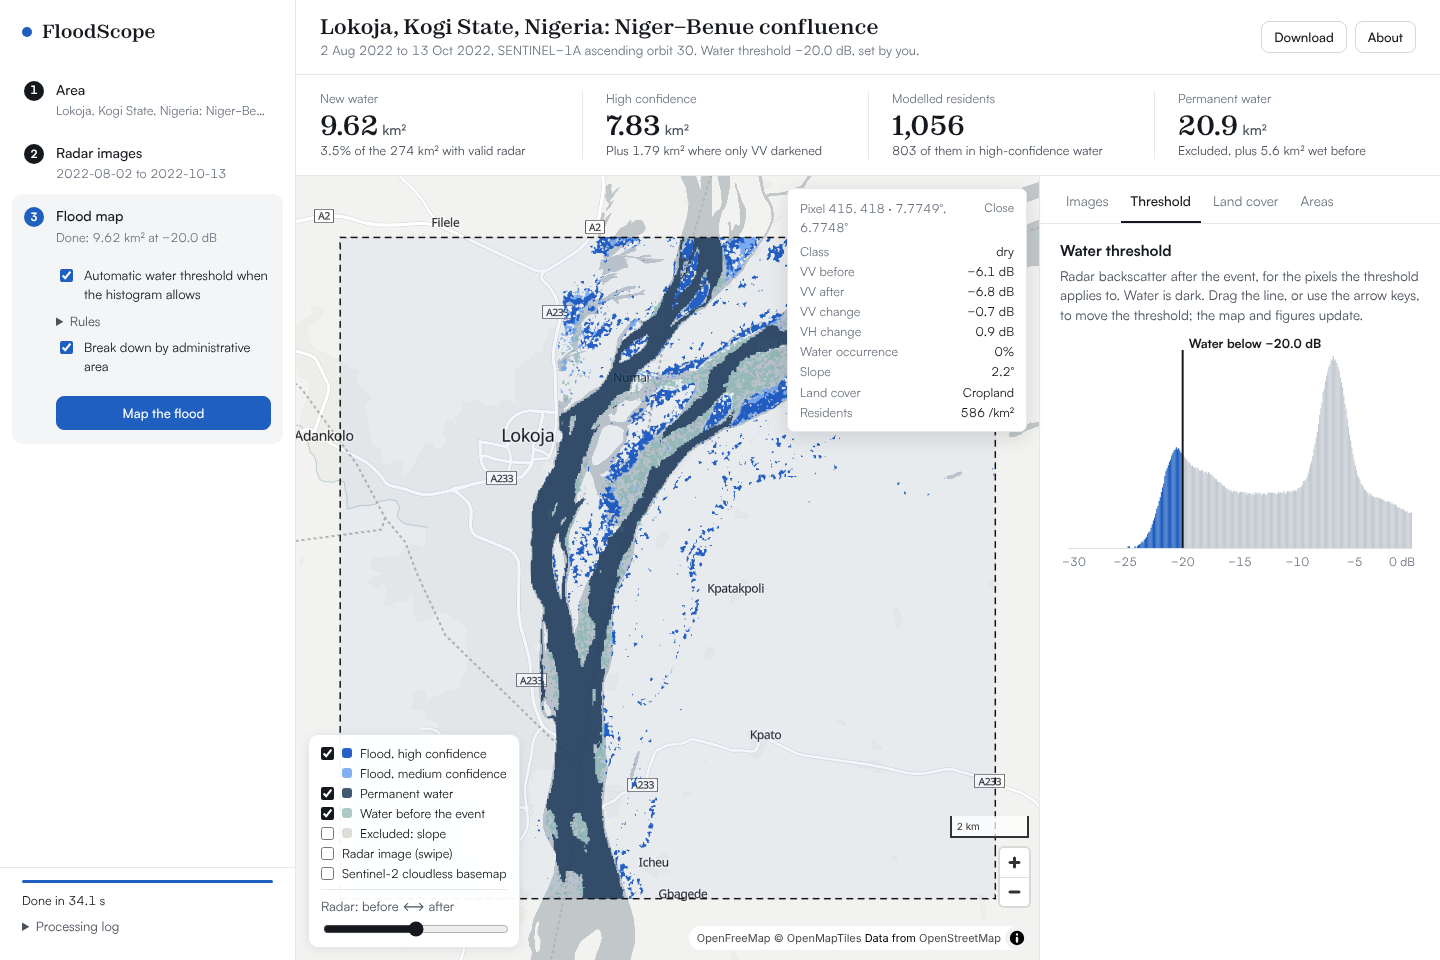
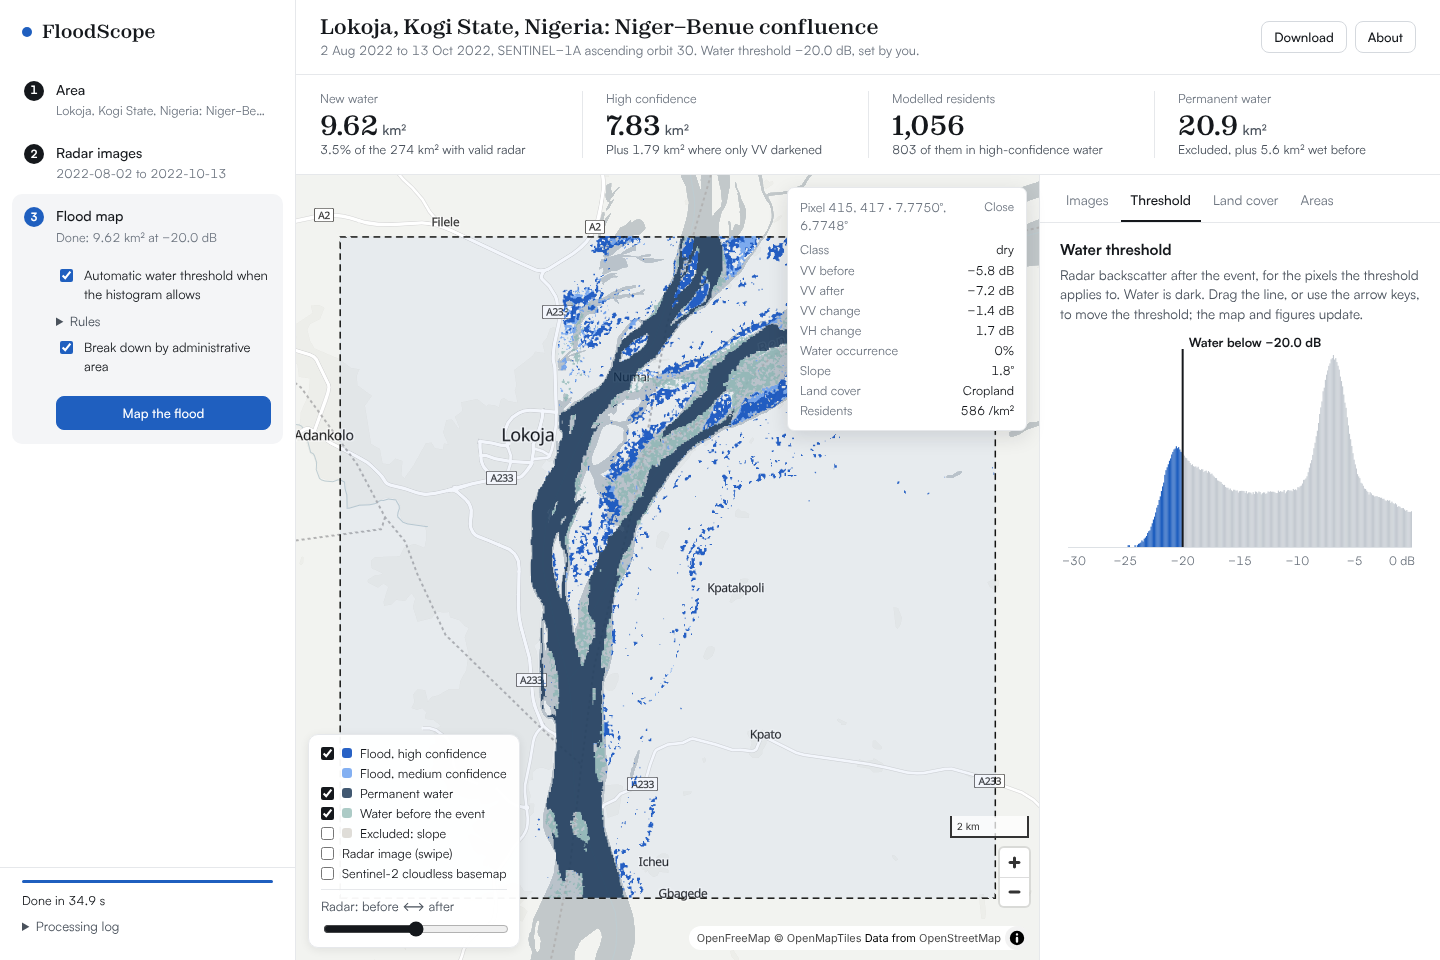
Fix review findings: clear old results on a new run, histogram as a keyboard slider, image re-picking, stale reclassify replies, narrow-screen menu and inputs

diff --git a/js/app.js b/js/app.js
@@ -64,7 +64,7 @@ async function setAoi(b, label) {
   $('aoi-info').hidden = false;
   $('aoi-info').innerHTML = `<span>${esc(label || 'Area')}</span><span class="num${ok ? '' : ' warn'}">${fmt(a, 0)} km²</span>${ok ? '' : `<span class="warn">${a > LIMIT_KM2 ? 'Larger than 3,600 km²; draw a smaller box' : 'Too small'}</span>`}`;
   summary(0, `${label || 'Area'}, ${fmt(a, 0)} km²`); summary(1, 'Before and after the flood');
-  searchSeq++; S.acq = []; S.pre = S.post = null; renderTimeline(); updateRun();
+  searchSeq++; S.acq = []; S.pre = S.post = null; if (!running && S.result) clearResult(); renderTimeline(); updateRun();
   if (b[1] < -56 || b[3] > 78) $('aoi-info').insertAdjacentHTML('beforeend', '<span class="warn">Outside 56° S to 78° N, where the permanent-water layer exists</span>');
   return ok;
 }
@@ -151,19 +151,21 @@ function renderTimeline() {
       b.textContent = a.datetime.slice(0, 10); b.title = `${a.platform}, ${a.datetime.replace('T', ' ').slice(0, 16)} UTC, ${trackKey(a)}`;
       if (S.pre && S.pre.id === a.id) b.dataset.role = 'pre';
       if (S.post && S.post.id === a.id) b.dataset.role = 'post';
-      if (S.pre && !S.post && (trackKey(a) !== trackKey(S.pre) || a.datetime <= S.pre.datetime)) b.disabled = true;
+      if (S.pre && !S.post && (trackKey(a) !== trackKey(S.pre) || a.datetime <= S.pre.datetime)) b.classList.add('other');
       b.onclick = () => pick(a);
       t.append(b);
     }
     box.append(t); el.append(box);
   }
-  $('pick-info').innerHTML = !S.pre ? 'Choose the <strong>before</strong> image.' : !S.post ? `Before: ${S.pre.datetime.slice(0, 10)}. Now choose the <strong>after</strong> image on the same track.`
+  $('pick-info').innerHTML = !S.pre ? 'Choose the <strong>before</strong> image.' : !S.post ? `Before: ${S.pre.datetime.slice(0, 10)}. Now choose the <strong>after</strong> image on the same track, or another date to change the before image.`
     : `Before ${S.pre.datetime.slice(0, 10)}, after ${S.post.datetime.slice(0, 10)}: ${Math.round((Date.parse(S.post.datetime) - Date.parse(S.pre.datetime)) / 864e5)} days apart. Click a date to start again.`;
   summary(1, S.pre && S.post ? `${S.pre.datetime.slice(0, 10)} to ${S.post.datetime.slice(0, 10)}` : S.pre ? `Before ${S.pre.datetime.slice(0, 10)}; choose after` : 'Before and after the flood');
 }
 function pick(a) {
-  if (!S.pre || S.post) { S.pre = a; S.post = null; }
-  else if (trackKey(a) === trackKey(S.pre) && a.datetime > S.pre.datetime) S.post = a;
+  // a later date on the same track completes the pair; any other date starts a new "before"
+  if (S.pre && !S.post && trackKey(a) === trackKey(S.pre) && a.datetime > S.pre.datetime) S.post = a;
+  else { S.pre = a; S.post = null; }
+  if (!running && S.result) clearResult();
   renderTimeline(); updateRun();
 }
 function updateRun() {
@@ -181,7 +183,7 @@ const complete = k => k === 0 ? !!(S.aoi && S.aoi.ok) : k === 1 ? !!(S.pre && S.
 function setLocks() {
   document.querySelectorAll('.step').forEach(el => {
     const k = +el.dataset.step;
-    el.classList.toggle('locked', !reach(k));
+    el.classList.toggle('locked', !reach(k)); el.querySelector('.step-h').setAttribute('aria-disabled', String(!reach(k))); el.querySelector('.step-h').tabIndex = reach(k) ? 0 : -1;
     el.classList.toggle('done', k !== step && complete(k));
   });
 }
@@ -222,14 +224,15 @@ $('run').addEventListener('click', runNow);
 let running = false;
 async function runNow() {
   if (running || !S.aoi || !S.pre || !S.post) return;
-  running = true; clearTimeout(rcTimer);
+  const aoi = S.aoi, pre = S.pre, post = S.post;   // fixed for this run, even if the inputs change while it runs
+  running = true; clearTimeout(rcTimer); rcSeq++; clearResult();
   $('run').disabled = true; $('demo').disabled = true; log.innerHTML = '';
   S.result = null; $('inspect').hidden = true; $('figures').classList.add('empty'); summary(2, 'Running');
   logLine('Starting', 'now');
   let zones = null;
-  if ($('p-zones').checked) zones = await loadZones(S.aoi).catch(e => { logLine(`Administrative areas unavailable: ${e.message}`, 'err'); return null; });
+  if ($('p-zones').checked) zones = await loadZones(aoi).catch(e => { logLine(`Administrative areas unavailable: ${e.message}`, 'err'); return null; });
   try {
-    const r = await ask('run', { args: { aoi: { type: 'Polygon', coordinates: [S.aoi.ring] }, pre: S.pre, post: S.post, params: P(), base: BASE, zones, label: S.aoi.label } },
+    const r = await ask('run', { args: { aoi: { type: 'Polygon', coordinates: [aoi.ring] }, pre, post, params: P(), base: BASE, zones, label: aoi.label } },
       msg => logLine(msg, msg.startsWith('Done') ? '' : 'now'));
     log.querySelectorAll('li.now').forEach(li => li.classList.remove('now'));
     S.result = r; S.zonesSource = zones ? zones.source : null; $('bar').style.width = '100%';
@@ -239,14 +242,15 @@ async function runNow() {
   finally { running = false; $('demo').disabled = false; updateRun(); }
 }
 
-let rcTimer = null;
+let rcTimer = null, rcSeq = 0;
 function scheduleReclassify(extra) {
   clearTimeout(rcTimer);
   if (running) return;
   rcTimer = setTimeout(async () => {
     if (running || !S.result) return;
     const p = P(), params = { changeDb: p.changeDb, slopeMax: p.slopeMax, permanentOccurrence: p.permanentOccurrence, ...extra };
-    try { const r = await ask('reclassify', { params }); S.result = r; await drawResult(r, false); } catch (e) { logLine(e.message, 'err'); }
+    const mine = ++rcSeq;
+    try { const r = await ask('reclassify', { params }); if (mine !== rcSeq || running) return; S.result = r; await drawResult(r, false); } catch (e) { logLine(e.message, 'err'); }
   }, 60);
 }
 
@@ -290,6 +294,7 @@ async function drawResult(r, fit) {
   radarCanvas = radarCanvas && radarCanvas.width === g.w && !fit ? radarCanvas : document.createElement('canvas');
   radarCanvas.width = g.w; radarCanvas.height = g.h; paintRadar(r);
   setImage('cls', clsCanvas); setImage('radar', radarCanvas, 'cls');
+  if (map.getLayer('cls')) map.setLayoutProperty('cls', 'visibility', 'visible');
   applyVisibility();
   if (fit) {
     const lons = corners.map(c => c[0]), lats = corners.map(c => c[1]);
@@ -297,7 +302,7 @@ async function drawResult(r, fit) {
   }
   renderLegend(); renderFigures(r); drawHist(r); renderLandcover(r); renderZones(r);
   $('thr-empty').hidden = true;
-  if (fit) showTab('thr');
+  if (fit) { showTab('thr'); if (window.innerWidth <= 860) document.querySelector('.main').scrollIntoView({ behavior: 'smooth' }); }
 }
 function paintClasses(cls, g) {
   const c = document.createElement('canvas'); c.width = g.w; c.height = g.h;
@@ -431,18 +436,23 @@ const hDb = ev => { const b = H.getBoundingClientRect(), pad = JSON.parse(H.data
 H.addEventListener('pointerdown', ev => { if (!S.result) return; dragH = true; H.setPointerCapture(ev.pointerId); move(ev); });
 H.addEventListener('pointermove', ev => dragH && move(ev));
 H.addEventListener('pointerup', () => { dragH = false; });
-function move(ev) {
-  const t = Math.round(hDb(ev) * 10) / 10;
-  $('p-thr').value = t; $('o-thr').textContent = `${fmt(t)} dB`.replace('-', '−');
-  S.result.threshold.value = t; drawHist(S.result);
-  scheduleReclassify({ threshold: t });
-}
+H.addEventListener('pointercancel', () => { dragH = false; });
+H.addEventListener('lostpointercapture', () => { dragH = false; });
+function move(ev) { setThreshold(hDb(ev)); }
 H.tabIndex = 0;
+H.setAttribute('role', 'slider'); H.setAttribute('aria-label', 'Water threshold, VV after the event, in dB'); H.setAttribute('aria-valuemin', '-26'); H.setAttribute('aria-valuemax', '-12');
+function setThreshold(t) {
+  t = Math.max(-26, Math.min(-12, Math.round(t * 10) / 10));
+  $('p-thr').value = t; $('o-thr').textContent = `${fmt(t)} dB`.replace('-', '−');
+  H.setAttribute('aria-valuenow', String(t)); H.setAttribute('aria-valuetext', `${fmt(t)} dB`.replace('-', '−'));
+  S.result.threshold.value = t; drawHist(S.result); scheduleReclassify({ threshold: t });
+}
 H.addEventListener('keydown', ev => {
-  if (!S.result || !['ArrowLeft', 'ArrowRight'].includes(ev.key)) return;
-  ev.preventDefault();
-  const t = Math.max(-26, Math.min(-12, Math.round((S.result.threshold.value + (ev.key === 'ArrowRight' ? 0.1 : -0.1)) * 10) / 10));
-  $('p-thr').value = t; S.result.threshold.value = t; drawHist(S.result); scheduleReclassify({ threshold: t });
+  if (!S.result) return;
+  const t = S.result.threshold.value;
+  const next = { ArrowLeft: t - 0.1, ArrowDown: t - 0.1, ArrowRight: t + 0.1, ArrowUp: t + 0.1, PageDown: t - 1, PageUp: t + 1, Home: -26, End: -12 }[ev.key];
+  if (next === undefined) return;
+  ev.preventDefault(); setThreshold(next);
 });
 
 // ---------------------------------------------------------------- exports
@@ -460,10 +470,10 @@ document.querySelectorAll('[data-export]').forEach(b => b.addEventListener('clic
 function save(blob, name) { const a = document.createElement('a'); a.href = URL.createObjectURL(blob); a.download = name; document.body.append(a); a.click(); setTimeout(() => { URL.revokeObjectURL(a.href); a.remove(); }, 1000); }
 async function mapPng() {
   await new Promise(r => { map.once('render', r); map.triggerRepaint(); });
-  const src = map.getCanvas(), c = document.createElement('canvas'), foot = 54;
+  const src = map.getCanvas(), c = document.createElement('canvas'), dpr = window.devicePixelRatio || 1, foot = 50 * dpr;
   c.width = src.width; c.height = src.height + foot;
   const ctx = c.getContext('2d'); ctx.fillStyle = '#fff'; ctx.fillRect(0, 0, c.width, c.height); ctx.drawImage(src, 0, 0);
-  const m = S.result.meta, dpr = window.devicePixelRatio || 1;
+  const m = S.result.meta;
   ctx.fillStyle = '#141412'; ctx.font = `${13 * dpr}px Satoshi, sans-serif`;
   ctx.fillText(`FloodScope · flood ${m.pre.datetime.slice(0, 10)} → ${m.post.datetime.slice(0, 10)} · ${fmt(S.result.summary.areaKm2.flood, 2)} km² new water`, 10 * dpr, src.height + 20 * dpr);
   ctx.fillStyle = '#55544e'; ctx.font = `${10 * dpr}px Satoshi, sans-serif`;
@@ -508,13 +518,37 @@ $('demo').addEventListener('click', async () => {
   go(2); runNow();
 });
 
+// the previous result is removed from the map, figures and tabs when a new run starts or the inputs change
+const EMPTY_KPI = $('figures').innerHTML;
+function clearResult() {
+  S.result = null;
+  ['cls', 'radar'].forEach(id => { if (map.getLayer(id)) map.setLayoutProperty(id, 'visibility', 'none'); });
+  $('legend').hidden = true; $('inspect').hidden = true;
+  $('figures').classList.add('empty'); $('figures').innerHTML = EMPTY_KPI;
+  $('thr-empty').hidden = false; hctx.setTransform(1, 0, 0, 1, 0, 0); hctx.clearRect(0, 0, H.width, H.height);
+  $('lc').innerHTML = '<p class="empty-state">Map a flood to see its land cover.</p>';
+  $('zones').innerHTML = '<p class="empty-state">Map a flood to see the areas it covers.</p>';
+  $('r-title').textContent = 'Flood extent from Sentinel-1 radar';
+  $('r-sub').textContent = 'Where open water appeared between two radar images, and who lived there.';
+  summary(2, 'Rules and run');
+}
+
 // ---------------------------------------------------------------- tabs, downloads menu, about
 function showTab(t) {
-  document.querySelectorAll('.tabs button').forEach(x => x.setAttribute('aria-selected', String(x.dataset.tab === t)));
+  document.querySelectorAll('.tabs button').forEach(x => { x.setAttribute('aria-selected', String(x.dataset.tab === t)); x.tabIndex = x.dataset.tab === t ? 0 : -1; });
   document.querySelectorAll('[data-tabpane]').forEach(p => { p.hidden = p.dataset.tabpane !== t; });
   if (t === 'thr' && S.result) drawHist(S.result);
 }
-document.querySelectorAll('.tabs button').forEach(b => b.addEventListener('click', () => showTab(b.dataset.tab)));
+const tabBtns = [...document.querySelectorAll('.tabs button')];
+tabBtns.forEach(b => {
+  const pane = document.querySelector(`[data-tabpane="${b.dataset.tab}"]`);
+  b.id = `tab-${b.dataset.tab}`; pane.id = `pane-${b.dataset.tab}`; pane.setAttribute('role', 'tabpanel'); pane.setAttribute('aria-labelledby', b.id); b.setAttribute('aria-controls', pane.id);
+  b.addEventListener('click', () => showTab(b.dataset.tab));
+  b.addEventListener('keydown', e => {
+    const i = tabBtns.indexOf(b), j = e.key === 'ArrowRight' ? (i + 1) % tabBtns.length : e.key === 'ArrowLeft' ? (i - 1 + tabBtns.length) % tabBtns.length : -1;
+    if (j < 0) return; e.preventDefault(); tabBtns[j].focus(); showTab(tabBtns[j].dataset.tab);
+  });
+});
 $('dl-menu').addEventListener('toggle', () => { if ($('dl-menu').open && !S.result) { $('dl-menu').open = false; $('r-sub').textContent = 'Map a flood first; downloads are made from the result.'; } });
 document.querySelectorAll('[data-export]').forEach(b => b.addEventListener('click', () => { $('dl-menu').open = false; }));
 document.addEventListener('click', e => { if ($('dl-menu').open && !$('dl-menu').contains(e.target)) $('dl-menu').open = false; });

diff --git a/css/dash.css b/css/dash.css
@@ -47,9 +47,9 @@ button, input, select { font: inherit; color: inherit; }
 .step.locked .step-h { cursor: default; }
 .step.locked .t, .step.locked .s { color: #a3aab2; }
 .step-b { padding: 0 12px 14px 44px; }
-label.f { display: grid; gap: 4px; font-size: 12.5px; color: var(--ink-3); margin: 10px 0; }
+label.f { display: grid; gap: 4px; font-size: 12.5px; color: var(--ink-3); margin: 10px 0; min-width: 0; }
 label.f output { color: var(--ink); }
-.in { width: 100%; height: 34px; border: 1px solid var(--line); background: var(--sheet); color: var(--ink); border-radius: var(--r); padding: 0 10px; font-size: 13.5px; }
+.in { width: 100%; min-width: 0; height: 34px; border: 1px solid var(--line); background: var(--sheet); color: var(--ink); border-radius: var(--r); padding: 0 10px; font-size: 13.5px; }
 .in:focus { outline: none; border-color: var(--accent); box-shadow: 0 0 0 3px var(--accent-soft); }
 .in::placeholder { color: #9aa1a9; }
 .row { display: flex; gap: 6px; align-items: center; }
@@ -64,6 +64,7 @@ label.f output { color: var(--ink); }
 .list { list-style: none; margin: 8px 0 0; padding: 4px; max-height: 210px; overflow: auto; border: 1px solid var(--rule); border-radius: var(--r); background: var(--sheet); }
 .list button { all: unset; display: block; width: 100%; box-sizing: border-box; padding: 7px 8px; font-size: 13px; cursor: pointer; border-radius: 6px; }
 .list button:hover, .list button:focus-visible { background: var(--hover); }
+.list button:focus-visible, .menu-list button:focus-visible { outline: 2px solid var(--accent); outline-offset: -2px; }
 .list li.small { padding: 7px 8px; }
 .chosen { margin-top: 10px; padding: 9px 11px; border-radius: var(--r); background: var(--sheet); border: 1px solid var(--rule); font-size: 13px; display: grid; gap: 2px; }
 .rail details { margin: 8px 0; font-size: 13px; }
@@ -107,7 +108,7 @@ input[type=range] { width: 100%; accent-color: var(--accent); }
 .kpi .l { font-size: 12.5px; color: var(--ink-3); white-space: nowrap; overflow: hidden; text-overflow: ellipsis; }
 .kpi .v { font-family: var(--display); font-size: 28px; font-weight: 700; line-height: 1.15; margin-top: 2px; white-space: nowrap; }
 .kpi .v small { font-family: var(--text); font-size: 14px; font-weight: 500; color: var(--ink-2); margin-left: 4px; }
-.kpi .d { font-size: 12.5px; color: var(--ink-2); white-space: nowrap; overflow: hidden; text-overflow: ellipsis; }
+.kpi .d { font-size: 12.5px; color: var(--ink-2); line-height: 1.35; display: -webkit-box; -webkit-line-clamp: 2; -webkit-box-orient: vertical; overflow: hidden; }
 .kpis.empty .v { color: var(--line); }
 
 .body { display: grid; grid-template-columns: minmax(0, 1fr) var(--panel-w); min-height: 0; }
@@ -150,7 +151,7 @@ input[type=range] { width: 100%; accent-color: var(--accent); }
 .tabpane p { margin: 0 0 10px; color: var(--ink-2); font-size: 13.5px; }
 .tabpane .note { font-size: 12.5px; color: var(--ink-3); }
 .empty-state { padding: 28px 4px; color: var(--ink-3); font-size: 13.5px; }
-canvas.chart { width: 100%; height: auto; display: block; touch-action: none; }
+canvas.chart { width: 100%; height: auto; display: block; }
 table.t { width: 100%; border-collapse: collapse; font-size: 13px; }
 table.t th, table.t td { text-align: left; padding: 6px 6px; border-bottom: 1px solid var(--rule); vertical-align: top; }
 table.t th { font-weight: 500; color: var(--ink-3); }
@@ -185,6 +186,9 @@ table.t td.n, table.t th.n { text-align: right; }
   .kpis { grid-template-columns: 1fr 1fr; }
   .kpi { padding: 12px 16px; border-bottom: 1px solid var(--rule); }
   .kpi:nth-child(2n) { border-right: 0; }
+  .kpi:nth-child(odd)::before { display: none; }
+  .menu-list { right: auto; left: 0; max-width: calc(100vw - 32px); }
+  .kpi .d { -webkit-line-clamp: 3; }
   .body { display: block; }
   .mapwrap { height: 62vh; border-right: 0; border-bottom: 1px solid var(--rule); }
   .tabpane { max-height: none; }

diff --git a/index.html b/index.html
@@ -22,7 +22,7 @@
           <form id="search" class="row" role="search" style="gap:6px">
             <label class="vh" for="q">Place</label>
             <input id="q" class="in" type="search" placeholder="Town or river" autocomplete="off">
-            <button class="rb" type="submit" style="flex:0">Search</button>
+            <button class="rb" type="submit">Search</button>
           </form>
           <ul id="search-results" class="list" hidden></ul>
           <div class="row" style="margin-top:8px">

diff --git a/css/floodscope.css b/css/floodscope.css
@@ -11,3 +11,5 @@
 .legend .swipe { border-top: 1px solid var(--rule); margin-top: 6px; padding-top: 6px; display: grid; gap: 2px; }
 #search .in { flex: 1 1 0; width: auto; min-width: 0; }
 #search .rb { flex: 0 0 auto; }
+#hist { touch-action: none; }
+.tick.other { opacity: .55; }
